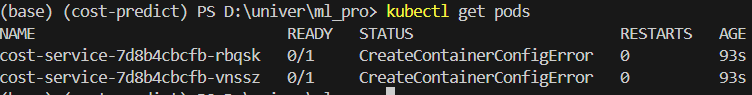
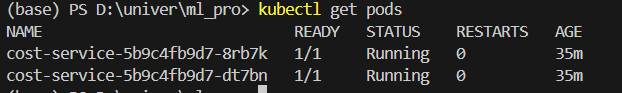
report

diff --git a/REPORT/REPORT.md b/REPORT/REPORT.md
@@ -35,5 +35,4 @@ Pods
 ![alt text](image-3.png)
 
 Проблемы с которыми столкнулся:
-При None pandas создавал столбцы фич mortgage_rate и usd_rate с типом object, который мой XGBoost не принимал. Привел тип к float, пропуски теперь NaN
-Pods не запускается. Возможно что то не то делаю. Буду разбираться дальше. У меня почему то не ready они. Что говорят логи? Я так и не понял что говорят
+Pods не запускался, не хватало памяти. Увеличил - заработало.

diff --git a/REPORT/REPORT_2.md b/REPORT/REPORT_2.md
@@ -1,4 +1,6 @@
 2.1
+https://github.com/S15B/ml_pro/actions/runs/38512193992
+https://github.com/S15B/ml_pro/pkgs/container/cost-services/1382959005?tag=sha-50755d36b91eb24e02bd34fa426795ed5dc90ada
 
 2.2 
 https://github.com/S15B/ml_pro/pull/1
